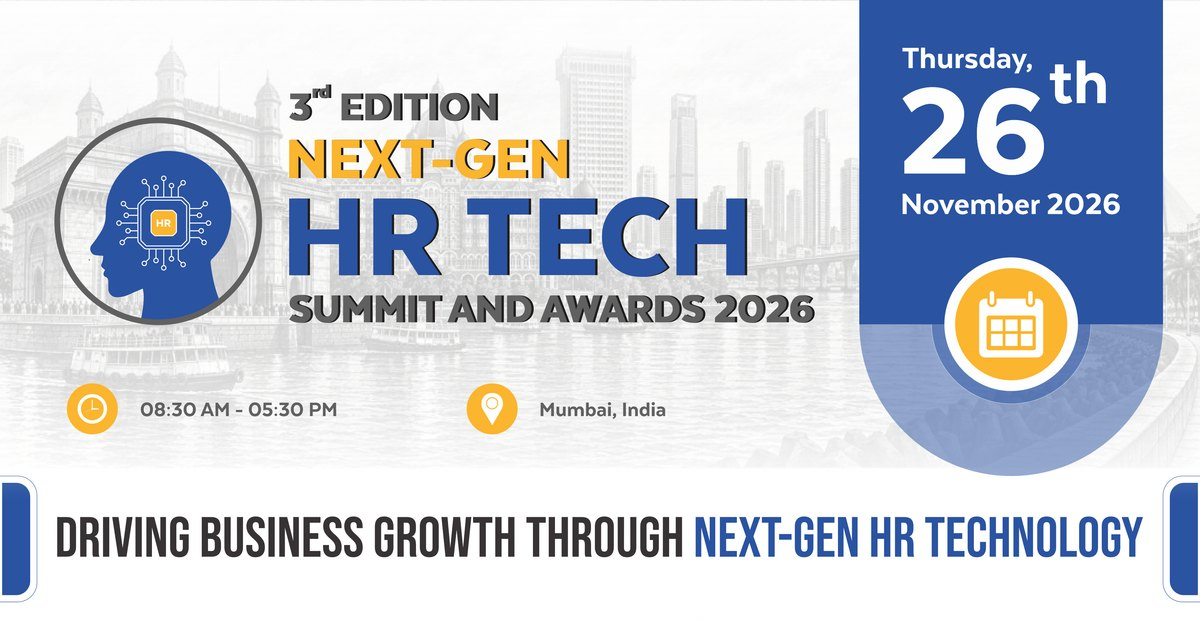
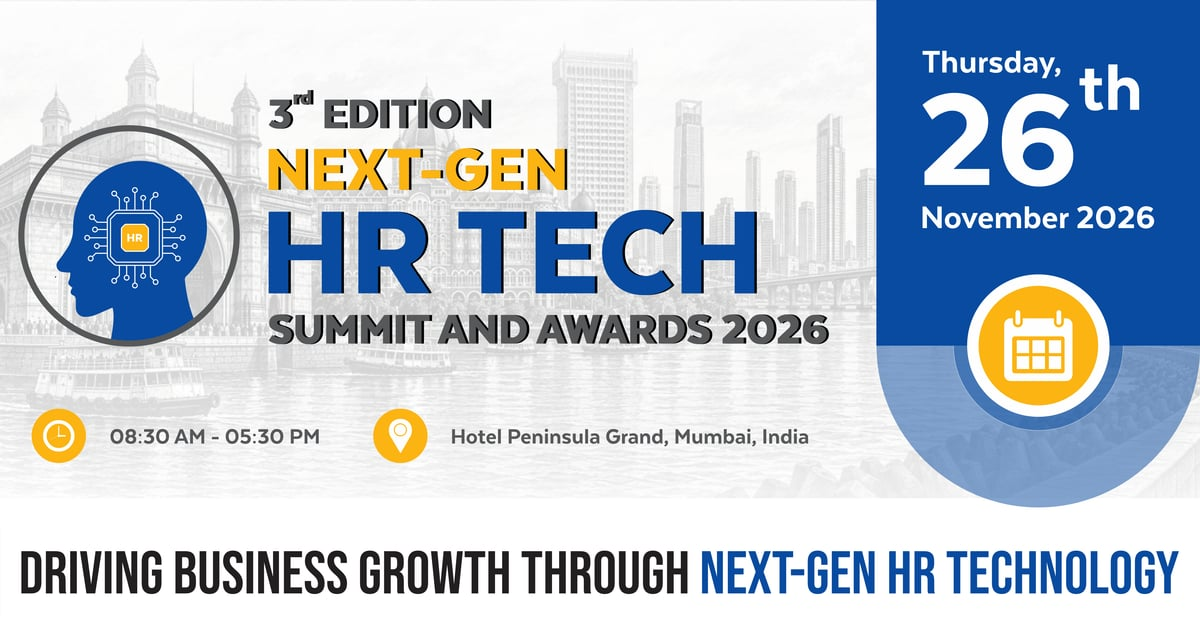
Update the HR Tech 2026 page from the 25 Nov brochure
The client sent a 4-page brochure dated 25 Nov 2026 and Ramco's own
write-up. The page now follows it:

- Agenda retimed; the partner slots are three named partner sessions
  (Aarvi, PeopleSol, Ramco), and panels 1 and 2 have new moderators and
  panellists.
- Speakers: Santosh Iyer, Ranjini Pillai, Harminder Bareja, Dr. Jagmohan
  Singh Rishi and Dr. Ravi Hemnani out; Arup Gupta, Dr. Subhash Mali,
  Shweta Thakkar, Sharon Roy Alexander and Dr. Arpita Sen in, with
  portraits from the brochure. Roles corrected for Davis John, Manohar
  Nimbhore, Gulrez Alam and Pawan Lalwani. Brochure order.
- Partners: Ramco Payce copy replaced with the client's text; Superset
  and Brainayan removed; siliconindia added as Media partner; PeopleSol's
  write-up completed.
- FAQ answers and the share image (now shows the venue) updated.
- The solo sessions get kind 'Partner session' so their speaker cards
  no longer read "Panel".

diff --git a/src/data/event-content.ts b/src/data/event-content.ts
@@ -238,77 +238,92 @@ export const EVENT_CONTENT: Record<string, EventContent> = {
         { time: '09:00', title: 'Registration & Breakfast', pause: true },
         { time: '09:15', title: 'Welcome address by Empiric Business Media' },
         {
-          time: '09:15',
+          time: '09:30',
           kind: 'Opening keynote',
           title: 'The Evolution of HR 2026: Transforming Talent with Tech',
           speaker: 'Tulanahinaa Maity',
         },
-        { time: '09:55', title: 'Partner Presentation 1' },
-        { time: '10:15', title: 'Partner Presentation 2', speaker: 'Ravi Vyas' },
+        /* The three solo slots are partner sessions (Aarvi, PeopleSol, Ramco).
+           The brochure prints no label; without a `kind` the speaker cards
+           would fall back to "Panel" (EventShowcase). */
         {
-          time: '10:35',
-          kind: 'Panel discussion 1',
-          title: 'Balancing Better: HR’s Role in Supporting Well-Being at Work and Beyond',
-          moderator: 'Dr. Jagmohan Singh Rishi',
-          panelists: ['Namita Patwari', 'Preeti Toshniwal', 'Judith Antao', 'Mousumi Dhar'],
+          time: '09:55',
+          kind: 'Partner session',
+          title: 'Technology, Expertise & Human Touch – Transforming Recruitment',
+          speaker: 'Ravi Vyas',
         },
         {
-          time: '11:20',
+          time: '10:15',
+          kind: 'Panel discussion 1',
+          title: 'Balancing Better: HR’s Role in Supporting Well-Being at Work and Beyond',
+          moderator: 'Arup Gupta',
+          panelists: [
+            'Namita Patwari',
+            'Preeti Toshniwal',
+            'Judith Antao',
+            'Shweta Thakkar',
+            'Manohar Nimbhore',
+          ],
+        },
+        {
+          time: '11:00',
+          kind: 'Partner session',
           title: 'Enterprise Digital Transformation of HR Admin and office operations',
           speaker: 'Gulrez Alam',
         },
-        { time: '11:40', title: 'Networking break', pause: true },
+        { time: '11:15', title: 'Networking break', pause: true },
         {
-          time: '12:00',
+          time: '11:40',
+          kind: 'Partner session',
+          title: 'Compliance at the speed of change: How AI is Rewriting the Playbook',
+          speaker: 'Karan Bhatia',
+        },
+        {
+          time: '12:10',
           kind: 'Panel discussion 2',
           title: 'Workplace by Design: Enhancing Experience, Empowerment, and Engagement',
-          moderator: 'Santosh Iyer',
+          moderator: 'Dr. Subhash Mali',
           panelists: [
             'Davis John',
-            'Harminder Bareja',
-            'Ranjini Pillai',
             'Ameet Kakar Thakur',
-            'Dr. Ravi Hemnani',
-            'Ravi Vyas',
             'Mousumi Dhar',
+            'Dr. Arpita Sen',
+            'Sharon Roy Alexander',
           ],
         },
-        { time: '12:45', title: 'Partner Presentation 4' },
-        { time: '13:05', title: 'Partner Presentation 5' },
-        { time: '13:25', title: 'Networking Lunch', pause: true },
+        { time: '12:55', title: 'Networking Lunch', pause: true },
         {
-          time: '14:25',
+          time: '14:00',
           kind: 'Panel discussion 3',
           title: 'HR Influence Without Authority: Driving Change Beyond Hierarchies',
           moderator: 'Sanjeeb Lahiri',
           panelists: [
-            'Rajan B Saawant',
-            'Pawan Lalwani',
             'Dr. Sarmistha Roychowdhury',
             'Anirudh Gupta',
             'Jagdeep Chauhan',
+            'Pawan Lalwani',
+            'Rajan B Saawant',
           ],
         },
         {
-          time: '15:15',
+          time: '14:50',
           kind: 'Panel discussion 4',
           title: 'AI Assurance & People Analytics: Data-Driven, Human-Centric HR',
           moderator: 'Dr. Kavindra Pant',
           panelists: [
-            'Rajendra Lingwal',
-            'Nandini Banerjee',
-            'Shruti Shrivastava',
-            'Karan Bhatia',
-            'Dr. Ujjal Sengupta',
             'Dr. Archana Yemeshvary Ashok Upadhyay',
+            'Nandini Banerjee',
+            'Rajendra Lingwal',
+            'Shruti Shrivastava',
+            'Dr. Ujjal Sengupta',
           ],
         },
         {
-          time: '15:55',
+          time: '15:30',
           kind: 'Awards ceremony',
           title: 'HR Excellence & Innovation Awards Ceremony 2026',
         },
-        { time: '16:10', title: 'Closing Note & Networking', pause: true },
+        { time: '15:45', title: 'Closing Note & Networking', pause: true },
       ],
     },
 
@@ -335,39 +350,39 @@ export const EVENT_CONTENT: Record<string, EventContent> = {
       confirmed: true,
       teaser: 'Confirmed: CHROs and HR heads from Citi, Reliance, Raymond, Zee & more',
       people: [
-        { name: 'Santosh Iyer', title: 'CHRO', company: 'KLT Automotive & Tubular Products Ltd.', photo: '/images/events/hrtech-2026/speakers/santosh-iyer.webp' },
-        { name: 'Dr. Archana Yemeshvary Ashok Upadhyay', title: 'CHRO', company: 'Hindustan Colas Pvt. Ltd. (HPCL JV)', photo: '/images/events/hrtech-2026/speakers/archana-yemeshvary-ashok-upadhyay.webp' },
-        { name: 'Dr. Sarmistha Roychowdhury', title: 'CHRO', company: 'Vform Tecnopacks Limited', photo: '/images/events/hrtech-2026/speakers/sarmistha-roychowdhury.webp' },
+        /* Order, names and roles follow the speaker page of the 25 Nov 2026
+           brochure. Portraits are cropped from the brochure, framed inside the
+           gold ring like the rest of the set. Tulanahinaa Maity, Jagdeep Chauhan
+           and Gulrez Alam keep the portraits EBM supplied on 17 Nov, when the
+           earlier brochure did not print them. */
+        { name: 'Tulanahinaa Maity', title: 'CHRO', company: 'Anand Rathi Group', photo: '/images/events/hrtech-2026/speakers/tulanahinaa-maity.webp' },
+        { name: 'Arup Gupta', title: 'Chief Human Resources Officer', company: 'Rosa Reliance Power Limited', photo: '/images/events/hrtech-2026/speakers/arup-gupta.webp' },
+        { name: 'Dr. Subhash Mali', title: 'Chief People Officer', company: 'H.K. Designs', photo: '/images/events/hrtech-2026/speakers/subhash-mali.webp' },
         { name: 'Sanjeeb Lahiri', title: 'CHRO', company: 'GRP Ltd', photo: '/images/events/hrtech-2026/speakers/sanjeeb-lahiri.webp' },
-        { name: 'Namita Patwari', title: 'CHRO & CXO', company: 'Alembic Pharmaceuticals Ltd', photo: '/images/events/hrtech-2026/speakers/namita-patwari.webp' },
+        { name: 'Dr. Sarmistha Roychowdhury', title: 'CHRO', company: 'Vform Tecnopacks Limited', photo: '/images/events/hrtech-2026/speakers/sarmistha-roychowdhury.webp' },
         { name: 'Dr. Kavindra Pant', title: 'CHRO', company: 'Shapoorji Pallonji Group', photo: '/images/events/hrtech-2026/speakers/kavindra-pant.webp' },
+        { name: 'Dr. Archana Yemeshvary Ashok Upadhyay', title: 'CHRO', company: 'Hindustan Colas Pvt. Ltd. (HPCL JV)', photo: '/images/events/hrtech-2026/speakers/archana-yemeshvary-ashok-upadhyay.webp' },
+        { name: 'Mousumi Dhar', title: 'CHRO', company: 'Indospace Group', photo: '/images/events/hrtech-2026/speakers/mousumi-dhar.webp' },
+        { name: 'Namita Patwari', title: 'CHRO & CXO', company: 'Alembic Pharmaceuticals Ltd', photo: '/images/events/hrtech-2026/speakers/namita-patwari.webp' },
+        { name: 'Jagdeep Chauhan', title: 'Director Human Resources', company: 'Hinduja Hospital', photo: '/images/events/hrtech-2026/speakers/jagdeep-chauhan.webp' },
+        { name: 'Dr. Ujjal Sengupta', title: 'Head Business HR', company: 'Jio', photo: '/images/events/hrtech-2026/speakers/ujjal-sengupta.webp' },
+        { name: 'Manohar Nimbhore', title: 'Director of Quality', company: 'Marriott International', photo: '/images/events/hrtech-2026/speakers/manohar-nimbhore.webp' },
         { name: 'Anirudh Gupta', title: 'Global Head – Talent and Learning', company: 'Glenmark Pharmaceuticals', photo: '/images/events/hrtech-2026/speakers/anirudh-gupta.webp' },
-        { name: 'Davis John', title: 'Head – HR & Business Services', company: 'Raymond Limited', photo: '/images/events/hrtech-2026/speakers/davis-john.webp' },
-        { name: 'Ranjini Pillai', title: 'Head HR', company: 'SICK Sensor Intelligence', photo: '/images/events/hrtech-2026/speakers/ranjini-pillai.webp' },
-        { name: 'Harminder Bareja', title: 'Head – Human Resources, Water Business', company: 'Dorf Ketal', photo: '/images/events/hrtech-2026/speakers/harminder-bareja.webp' },
-        { name: 'Dr. Jagmohan Singh Rishi', title: 'Global Head – L&D and Digital Excellence; President, Bombay Management Association 2025', company: 'Wockhardt Ltd', photo: '/images/events/hrtech-2026/speakers/jagmohan-singh-rishi.webp' },
+        { name: 'Judith Antao', title: 'Head – HR', company: 'Rohlig India Private Limited', photo: '/images/events/hrtech-2026/speakers/judith-antao.webp' },
+        { name: 'Shweta Thakkar', title: 'Head – HR', company: 'Milliken & Company', photo: '/images/events/hrtech-2026/speakers/shweta-thakkar.webp' },
+        { name: 'Davis John', title: 'Head – HR & Business Services', company: 'Raymond Realty Ltd.', photo: '/images/events/hrtech-2026/speakers/davis-john.webp' },
+        { name: 'Sharon Roy Alexander', title: 'Head Learning & Development, West Region', company: 'Prestige Group', photo: '/images/events/hrtech-2026/speakers/sharon-roy-alexander.webp' },
+        { name: 'Dr. Arpita Sen', title: 'Head People Academy', company: 'Tata Tele Business Services', photo: '/images/events/hrtech-2026/speakers/arpita-sen.webp' },
         { name: 'Preeti Toshniwal', title: 'Senior Vice President – HR', company: 'Zee Entertainment Enterprises Ltd.', photo: '/images/events/hrtech-2026/speakers/preeti-toshniwal.webp' },
         { name: 'Rajendra Lingwal', title: 'Senior Vice President – HR', company: 'Persistent Systems Ltd.', photo: '/images/events/hrtech-2026/speakers/rajendra-lingwal.webp' },
-        { name: 'Pawan Lalwani', title: 'Strategic HR Leader – Learning & Capability', company: 'Reliance Industries Ltd.', photo: '/images/events/hrtech-2026/speakers/pawan-lalwani.webp' },
-        { name: 'Rajan B Saawant', title: 'Vice President Corporate – Human Resources', company: 'Indoco Remedies Ltd', photo: '/images/events/hrtech-2026/speakers/rajan-b-saawant.webp' },
-        { name: 'Nandini Banerjee', title: 'Learning Business Partner, India Business', company: 'Johnson Controls', photo: '/images/events/hrtech-2026/speakers/nandini-banerjee.webp' },
-        { name: 'Judith Antao', title: 'Head – HR', company: 'Rohlig India Private Limited', photo: '/images/events/hrtech-2026/speakers/judith-antao.webp' },
-        { name: 'Ameet Kakar Thakur', title: 'VP HR', company: 'GSL Group', photo: '/images/events/hrtech-2026/speakers/ameet-kakar-thakur.webp' },
         { name: 'Shruti Shrivastava', title: 'Senior Vice President HR', company: 'Citi', photo: '/images/events/hrtech-2026/speakers/shruti-shrivastava.webp' },
-        { name: 'Dr. Ravi Hemnani', title: 'VP – Human Resources', company: 'Nuvoco Vistas Corp', photo: '/images/events/hrtech-2026/speakers/ravi-hemnani.webp' },
+        { name: 'Pawan Lalwani', title: 'Strategic HR Leader – Learning & Capability, DGM', company: 'Reliance Industries Ltd.', photo: '/images/events/hrtech-2026/speakers/pawan-lalwani.webp' },
         { name: 'Ravi Vyas', title: 'Vice President', company: 'Aarvi Encon Limited', photo: '/images/events/hrtech-2026/speakers/ravi-vyas.webp' },
-        { name: 'Manohar Nimbhore', title: 'Director Learning and Development', company: 'Marriott International', photo: '/images/events/hrtech-2026/speakers/manohar-nimbhore.webp' },
-        { name: 'Mousumi Dhar', title: 'CHRO', company: 'Indospace Group', photo: '/images/events/hrtech-2026/speakers/mousumi-dhar.webp' },
-        { name: 'Dr. Ujjal Sengupta', title: 'Head Business HR', company: 'Jio', photo: '/images/events/hrtech-2026/speakers/ujjal-sengupta.webp' },
+        { name: 'Rajan B Saawant', title: 'Vice President Corporate – Human Resources', company: 'Indoco Remedies Ltd', photo: '/images/events/hrtech-2026/speakers/rajan-b-saawant.webp' },
+        { name: 'Ameet Kakar Thakur', title: 'VP HR', company: 'GSL Group', photo: '/images/events/hrtech-2026/speakers/ameet-kakar-thakur.webp' },
+        { name: 'Nandini Banerjee', title: 'Learning Business Partner, India Business', company: 'Johnson Controls', photo: '/images/events/hrtech-2026/speakers/nandini-banerjee.webp' },
+        { name: 'Gulrez Alam', title: 'Founder and CEO', company: 'PeopleSol', photo: '/images/events/hrtech-2026/speakers/gulrez-alam.webp' },
         { name: 'Karan Bhatia', title: 'Payroll Bureau Head', company: 'RAMCO', photo: '/images/events/hrtech-2026/speakers/karan-bhatia.webp' },
-        /* Named in the agenda but not on the brochure's speaker page, so their
-           portraits did not come from it. EBM supplied them separately on
-           17 Nov 2026; they are framed with the same ring as the rest of the
-           set, copied pixel for pixel from an existing image so the row cannot
-           drift. A name still without one renders as the empty gold ring. */
-        { name: 'Tulanahinaa Maity', title: 'CHRO', company: 'Anand Rathi Group', photo: '/images/events/hrtech-2026/speakers/tulanahinaa-maity.webp' },
-        { name: 'Gulrez Alam', title: 'Founder & MD', company: 'PeopleSol', photo: '/images/events/hrtech-2026/speakers/gulrez-alam.webp' },
-        { name: 'Jagdeep Chauhan', title: 'Director Human Resources', company: 'Hinduja Hospital', photo: '/images/events/hrtech-2026/speakers/jagdeep-chauhan.webp' },
       ],
     },
 
@@ -457,28 +472,13 @@ export const EVENT_CONTENT: Record<string, EventContent> = {
         name: 'Ramco Payce',
         logo: { src: '/images/events/hrtech-2026/partners/ramco-payce.webp', w: 209, h: 120 },
         url: 'https://www.ramco.com/products/payce-payroll-software',
-        /* The brochure reserves this block and leaves the body blank, so unlike
-           every other partner here this copy does NOT come from it. It is drawn
-           from Ramco's own published material — the Payce product page, the
-           global payroll page and the 9 Feb 2024 launch press release — and
-           every claim below is one Ramco makes about itself in public. Nothing
-           is added. See event-notes.ts for the conflict this resolves. */
+        /* Ramco's own write-up, sent by EBM in the client email of 26 Nov 2026
+           and published as sent (one fix: "Fortune500" → "Fortune 500"). The
+           25 Nov brochure prints a different Ramco blurb; the email is the
+           explicit instruction, so it wins. See event-notes.ts. */
         about: [
-          'Ramco Payce is a platform-based, AI-powered payroll product from Ramco Systems, built to change how enterprises manage payroll. It brings serverless in-memory computing, data analytics, artificial intelligence and machine learning together with Ramco’s two decades in the domain, so organisations process payroll faster, more easily and more accurately.',
-          'The platform is organised around four workspaces. Payroll Workspace is a single console to review inputs, bulk-upload data, resolve integration issues, process payroll, verify anomalies and download reports. BInGO is a DIY reporting and analytics tool that needs no coding. Daily HR is a modern employee self-service portal. CHIA is an AI assistant that handles everyday queries.',
-          'Implementation moves from months to weeks. A no-code rule builder lets teams express payroll logic as conditions rather than code, AI-driven compliance keeps country rules current in real time, and the engine processes over 100 million payroll records in 30 minutes using in-memory parallel computing. Certified connectors cover Workday, Oracle HCM, SAP SuccessFactors, Microsoft Dynamics, Epicor, Sage and Kronos, alongside leading time and attendance platforms.',
-          'Ramco Global Payroll has delivered payroll transformation for over 25 years, with coverage across 150+ countries and 500+ customers worldwide, including Fortune 500 enterprises such as GE, Coca-Cola and Standard Chartered. It can be deployed on cloud or taken as a managed service.',
-        ],
-      },
-      {
-        tier: 'Gold partner',
-        name: 'Superset',
-        logo: { src: '/images/events/hrtech-2026/partners/superset.webp', w: 209, h: 120 },
-        url: 'https://joinsuperset.com/employer.html',
-        about: [
-          'Superset is India’s largest campus hiring platform, built to simplify and scale fresher recruitment for employers across the country. Trusted by over 12,000 employers and 600+ universities, we connect recruiting teams to verified talent across 24,000+ campuses.',
-          'We handle the full recruitment workflow: campus outreach, candidate assessments, virtual interview drives, and offer management, with everything tracked in one place. With real-time analytics and personalised candidate recommendations, recruiting teams spend less time on logistics and more time on the right hires.',
-          'Superset is where campus hiring happens at scale.',
+          'With payroll coverage for 150 countries generating 36 million+ payslips annually for 500+ large MNCs & Fortune 500 customers, Ramco has been at the forefront of delivering global payroll transformation for more than 25 years. Ramco Payce is a comprehensive suite of seamlessly integrated payroll features & processes that promises a seamless and holistic approach to payroll, ensuring efficiency, accuracy, and a streamlined workflow for enhanced organizational performance.',
+          'It is a unified global payroll solution for payroll administrators, Implementation consultants, managers, and employees that organizations can deploy on-cloud or leverage as a managed service. Ramco Payce offers seamless integration with leading HCM providers such as Workday and Oracle. With features like lightning-fast payroll processing, AI-driven payroll compliance, no-code rule building, on-demand reporting, Payce marks the beginning of a groundbreaking shift in payroll transformation.',
         ],
       },
       {
@@ -500,18 +500,8 @@ export const EVENT_CONTENT: Record<string, EventContent> = {
           'PeopleSol HRMS is a world-class Human Resource Management System designed to simplify, streamline, and elevate every aspect of your organization’s HR operations. Built with powerful web and mobile interfaces, it provides a seamless digital experience that connects employees, managers, and HR teams, IT Teams and Admin teams anytime, anywhere.',
           'From hire to retire, PeopleSol HRMS empowers organizations to manage the complete employee lifecycle with ease — covering recruitment, onboarding, payroll, performance, learning, attendance, ITSM, Office Facility management and more. Its real-time analytics and dashboards offer deep workforce insights, enabling data-driven decisions and smarter people management.',
           'With automation at its core, PeopleSol HRMS eliminates manual processes, reduces administrative workload, and enhances accuracy and compliance. The system is fully configurable to your company’s structure, policies, and approval workflows, ensuring flexibility and scalability as your organization grows.',
-          'Whether you’re a small enterprise or a large corporation, PeopleSol HRMS helps you create a connected, efficient, and engaged workplace — boosting productivity, transparency, and employee satisfaction.',
-        ],
-      },
-      {
-        tier: 'Neuroscience learning partner',
-        name: 'Brainayan',
-        logo: { src: '/images/events/hrtech-2026/partners/brainayan.webp', w: 320, h: 115 },
-        url: 'https://www.brainayan.com/',
-        about: [
-          'Brainayan, founded in 2016 by a former L&D leader at Google and Facebook, is a people development company that blends neuroscience-based learning to create meaningful, lasting change. We specialize in customized and personalized high-impact behavioral learning experiences that go far beyond one-size-fits-all training — addressing real business challenges and empowering individuals to lead, grow, and thrive.',
-          'With 30,000+ hours of delivery and content development, Brainayan has partnered with 100+ organizations across APAC — from scaling startups to Fortune 100 giants.',
-          'Clients include Netflix, Google, Grab, Viacom18, Deloitte, Snapchat, WeWork, Sumo Logic, Uber, TikTok, Zepto, Facebook, AppDynamics, Warner Bros Discovery, Xiaomi, DE Shaw, Piramal Finance, IndiaFirst Life, Trust Mutual Fund, Caratlane, Sanctum Wealth, Ask Group, Kirloskar Group, BHTC, Baskin Robbins and Table Space.',
+          'Whether you’re a small enterprise or a large corporation, PeopleSol HRMS helps you create a connected, efficient, and engaged workplace — boosting productivity, transparency, and employee satisfaction. Experience the digital power of PeopleSol HRMS — where innovation meets simplicity, and people come first.',
+          'Core HR (Human Resource Management System) is a complete solution that integrates and automates all aspects of human resource operations. It manages the entire employee lifecycle — from recruitment and onboarding to employee management, development, and exit processes — ensuring smooth and efficient HR operations.',
         ],
       },
       {
@@ -563,6 +553,15 @@ export const EVENT_CONTENT: Record<string, EventContent> = {
           'BharatCXO has served as official media partner for 14+ premier industry events across India, among them CISO India Connect, the Bharat Insurance Summit & Awards, CIO Convergence and the HR+L&D Innovation Summit & Awards.',
         ],
       },
+      {
+        tier: 'Media partner',
+        name: 'siliconindia',
+        logo: { src: '/images/events/hrtech-2026/partners/siliconindia.webp', w: 320, h: 113 },
+        url: 'https://www.siliconindia.com/',
+        /* New in the 25 Nov 2026 brochure, which gives media partners no
+           write-up. Left empty, so the card is logo-only (no detail panel). */
+        about: [],
+      },
     ],
 
     faq: [
@@ -576,11 +575,11 @@ export const EVENT_CONTENT: Record<string, EventContent> = {
       },
       {
         q: 'What will the 2026 summit cover?',
-        a: 'The theme is “Driving Business Growth Through Next-Gen HR Technology”. An opening keynote on the evolution of HR in 2026 is followed by four panel discussions: wellbeing at work, workplace by design, HR influence without authority, and AI assurance and people analytics.',
+        a: 'The theme is “Driving Business Growth Through Next-Gen HR Technology”. An opening keynote on the evolution of HR in 2026 is followed by partner sessions on recruitment, digital HR operations and AI in payroll compliance, and four panel discussions: wellbeing at work, workplace by design, HR influence without authority, and AI assurance and people analytics.',
       },
       {
         q: 'Who is speaking at the Next-Gen HR Tech Summit 2026?',
-        a: '28 HR leaders are named in the brochure, including Santosh Iyer (KLT Automotive), Shruti Shrivastava (Citi), Pawan Lalwani (Reliance Industries), Davis John (Raymond), Preeti Toshniwal (Zee Entertainment Enterprises), Dr. Kavindra Pant (Shapoorji Pallonji Group) and Rajendra Lingwal (Persistent Systems).',
+        a: '28 HR leaders are named in the brochure, including Tulanahinaa Maity (Anand Rathi Group), Shruti Shrivastava (Citi), Pawan Lalwani (Reliance Industries), Davis John (Raymond Realty), Preeti Toshniwal (Zee Entertainment Enterprises), Dr. Kavindra Pant (Shapoorji Pallonji Group) and Rajendra Lingwal (Persistent Systems).',
       },
       {
         q: 'What are the HR Excellence & Innovation Awards 2026?',

diff --git a/src/data/event-notes.ts b/src/data/event-notes.ts
@@ -40,18 +40,20 @@ export const EVENT_NOTES: Record<string, EventNote> = {
   },
   'next-gen-hr-tech-summit-awards-2026': {
     source:
-        'Event brochure "3rd Edition Next-Gen HR Tech Summit & Excellence Awards 2026" (15 pages), supplied by EBM on 17 Nov 2026 — the source for the date, theme, agenda, confirmed speakers, award categories and partners. The mission/vision/goal, key focus points and EBM contacts still come from the live /hrtech/ microsite (crawl 2026-09-02). Logo, award badge, share image, speaker photos and partner logos are extracted from the brochure pages.',
+        'Event brochure "3rd Edition Next-Gen HR Tech Summit & Excellence Awards 2026": a 15-page edition supplied by EBM on 17 Nov 2026, superseded by a 4-page edition dated 25 Nov 2026 (cover, partner write-ups, agenda; outlines only, no text layer) that EBM sent on 26 Nov 2026 with an email asking for the site to follow it and supplying Ramco’s write-up. The 25 Nov edition is the source for the agenda, speakers and partners; the date, theme and award categories are unchanged from the 17 Nov edition. The mission/vision/goal, key focus points and EBM contacts still come from the live /hrtech/ microsite (crawl 2026-09-02). Logo, award badge, speaker photos and partner logos are extracted from the brochure pages; the share image is re-cropped from the 25 Nov cover.',
     conflicts: [
         'RESCHEDULED: postponed on 29 Sep 2026 from 30 Sep; the brochure prints Thursday 26 November 2026. The Mumbai tour leg carries the new date.',
-        'The cover prints 08:30 AM - 05:30 PM, but the agenda inside opens at 09:00 AM and closes at 16:10. The cover window is published, as on the FinTax page.',
-        'Agenda prints two slots at 09:15 AM — the welcome address and the opening keynote. Published as printed.',
-        'Agenda runs Partner Presentation 1, 2, 4 and 5. There is no Partner Presentation 3. Published as printed; confirm whether one is missing or the numbering is wrong.',
-        'Ramco Payce is a Gold partner and the brochure reserves its write-up block — tier banner, logo and the heading "COMPANY WRITE-UP" — then leaves the body blank. RESOLVED on 17 Nov 2026, but from a different source: EBM asked for the section to be filled, so the copy was written from Ramco\'s own published material (the Payce product page, the global payroll page and the 9 Feb 2024 launch press release) rather than from the brochure. Every figure in it — 150+ countries, 500+ customers, 100 million records in 30 minutes, 25 years, the named connectors and the Fortune 500 clients — is a claim Ramco makes about itself in public, and is attributed to Ramco rather than asserted by EBM. It is the only partner blurb on this page that the brochure does not carry. TODO(client): if Ramco supplies its own write-up, replace this with theirs. One claim EBM sent was NOT published: that Payce targets enterprises of 1,000+ employees. Ramco\'s own pages say "enterprises" and name Fortune 500 clients but print no headcount threshold, so the number is left out rather than sourced to EBM.',
+        'The cover prints 08:30 AM - 05:30 PM, but the agenda inside opens at 09:00 AM and closes at 03:45 PM (04:10 PM in the 17 Nov edition). The cover window is published, as on the FinTax page.',
+        'RESOLVED by the 25 Nov 2026 edition: the 17 Nov edition printed the welcome address and the opening keynote both at 09:15 AM, and ran Partner Presentation 1, 2, 4 and 5 with no 3. The new edition puts the keynote at 09:30 AM and replaces the partner slots with three named sessions (Ravi Vyas of Aarvi, Gulrez Alam of PeopleSol, Karan Bhatia of Ramco).',
+        'Ramco Payce (Gold partner): the 17 Nov edition left its write-up block blank, so copy was written from Ramco’s own published material. REPLACED on 26 Nov 2026 by the write-up EBM sent in its email, published as sent apart from "Fortune500" → "Fortune 500". The 25 Nov brochure prints a different Ramco blurb (a platform paragraph plus bullets: actionable messages on Outlook, role-based hubs, real-time notifications, frictionless experience, chatbots, voice & facial recognition-based workforce management, AI-powered anomaly engine); the email is the explicit instruction, so it wins.',
         'BharatCXO is the Media partner and the brochure gives media partners no write-up block at all. RESOLVED on 17 Nov 2026 the same way as Ramco Payce: EBM supplied the official link and asked for the section to be filled, so the copy was written from bharatcxo.com rather than from the brochure. Every figure in it — 250+ podcast episodes, 50,000+ subscribers, 3M+ organic impressions, 14+ media partner events and the named client enterprises — is a claim BharatCXO publishes about itself. Their own site names the networking club two ways, "CXO Club 100" under services and "Ratan 100 Club" in the series list and footer; the latter is published, being the form used twice. TODO(client): if BharatCXO supplies its own write-up, replace this with theirs.',
         'Award name conflict: the live microsite calls them the "Excellence in HR Awards 2026"; the brochure ceremony line says "HR Excellence & Innovation Awards Ceremony 2026". The brochure name is published. The 44 categories are identical in both.',
-        'Three people are named in the agenda but are not on the brochure speaker page: Tulanahinaa Maity (opening keynote), Gulrez Alam (partner session) and Jagdeep Chauhan (panel 3). RESOLVED on 17 Nov 2026: EBM supplied the three portraits separately, so they are the only speaker images on this page that did not come from the brochure. Each was framed with the ring copied pixel for pixel from an existing image in the set, so the row cannot drift; the geometry is recorded in the comment beside the speaker list in event-content.ts.',
-        'The speaker page prints "Ameet Kakar THAKUR"; the agenda prints "Ameet Kakar Thakur". Published with the agenda spelling.',
-        'No venue is named in the brochure. EBM confirmed it on 17 Nov 2026 as the Peninsula Grand Hotel, Andheri, which is therefore the only published fact on this page that the brochure does not carry. TODO(client): confirm the exact registered hotel name and the full street address for the Event structured data.',
+        'Tulanahinaa Maity, Gulrez Alam and Jagdeep Chauhan were missing from the 17 Nov speaker page, so EBM supplied their portraits separately and each was framed with the ring copied from an existing image in the set. The 25 Nov speaker page prints all three; the EBM-supplied portraits are kept.',
+        'Line-up changes in the 25 Nov 2026 edition: panel 1 is moderated by Arup Gupta (was Dr. Jagmohan Singh Rishi) and panel 2 by Dr. Subhash Mali (was Santosh Iyer). No longer named: Santosh Iyer, Ranjini Pillai, Harminder Bareja, Dr. Jagmohan Singh Rishi, Dr. Ravi Hemnani. New: Arup Gupta, Dr. Subhash Mali, Shweta Thakkar, Sharon Roy Alexander, Dr. Arpita Sen (portraits cropped from the speaker page). Updated: Davis John is at Raymond Realty Ltd., Manohar Nimbhore is Director of Quality, Gulrez Alam is Founder and CEO, Pawan Lalwani’s title adds DGM. Karan Bhatia moves from panel 4 to his own session.',
+        'Partners in the 25 Nov 2026 edition: Superset (Gold) and Brainayan (Neuroscience learning partner) are gone and were removed; siliconindia is new as a second Media partner, with no write-up (logo-only card). PeopleSol’s write-up gains a closing sentence and a Core HR paragraph.',
+        'Panel discussion 4’s description in the 25 Nov edition is a word-for-word copy of panel 3’s. Session descriptions are not published, so the page is unaffected; tell EBM.',
+        'Spellings in the 25 Nov edition: the speaker page prints "Vform Tecnopacks Limited", the agenda "Vform Tenopacks Limited" (speaker-page spelling published); the agenda prints "Enterprise Digital Transformation If HR Admin…" (published as "of"); "Sharon (Sharon Roy) Alexander" and "Dr. Arpita SEN" are published as "Sharon Roy Alexander" and "Dr. Arpita Sen".',
+        'Venue: the 17 Nov edition named none and EBM confirmed the Peninsula Grand Hotel, Andheri. The 25 Nov cover prints "Hotel Peninsula Grand, Mumbai, India" — the same hotel, so the published name is unchanged. TODO(client): confirm the exact registered hotel name and the full street address for the Event structured data.',
         'City conflict, still open from the crawl: the hero says Mumbai; the contact page says Hyatt Regency, Chennai. The brochure says Mumbai, India.',
         'The live /hrtech/ page showed the CISO summit headline and counted down to the CISO date at the time of the crawl.',
         'No delegate price has ever been published for this event, so none is shown. Supply the ladder and set pricingPublished.',

diff --git a/src/data/site.ts b/src/data/site.ts
@@ -439,7 +439,8 @@ export const ALL_EVENTS: EventRecord[] = [
     // Postponed on 29 Sep 2026, then rescheduled: the 3rd Edition brochure EBM
     // supplied on 17 Nov 2026 prints Thursday 26 November 2026, Mumbai. The
     // brochure is this edition's own artwork and is the source for the date,
-    // theme, agenda, speakers, awards and partners published here.
+    // theme, agenda, speakers, awards and partners published here; its 4-page
+    // edition of 25 Nov 2026 is the source for the agenda, speakers and partners.
     edition: '3rd Edition',
     name: 'Next-Gen HR Tech Summit & Awards',
     seoName: 'Next-Gen HR Tech Summit',
@@ -450,11 +451,12 @@ export const ALL_EVENTS: EventRecord[] = [
     dateLabel: 'Thursday, 26 November 2026',
     year: 2026,
     // The cover prints 08:30 AM - 05:30 PM; the agenda inside runs 09:00 to
-    // 16:10. The cover's window is published, as on the 5th Edition FinTax page.
+    // 15:45. The cover's window is published, as on the 5th Edition FinTax page.
     timeLabel: '08:30 AM – 05:30 PM',
     city: 'Mumbai',
-    // Confirmed by EBM on 17 Nov 2026. The brochure prints no venue, so this
-    // is the one fact on this page that does not come from it.
+    // Confirmed by EBM on 17 Nov 2026, when the brochure printed no venue. The
+    // 25 Nov 2026 edition prints "Hotel Peninsula Grand, Mumbai, India" — the
+    // same hotel, so the published name is unchanged.
     venue: 'Peninsula Grand Hotel, Andheri',
     sector: 'hr-technology',
     format: 'conference',
